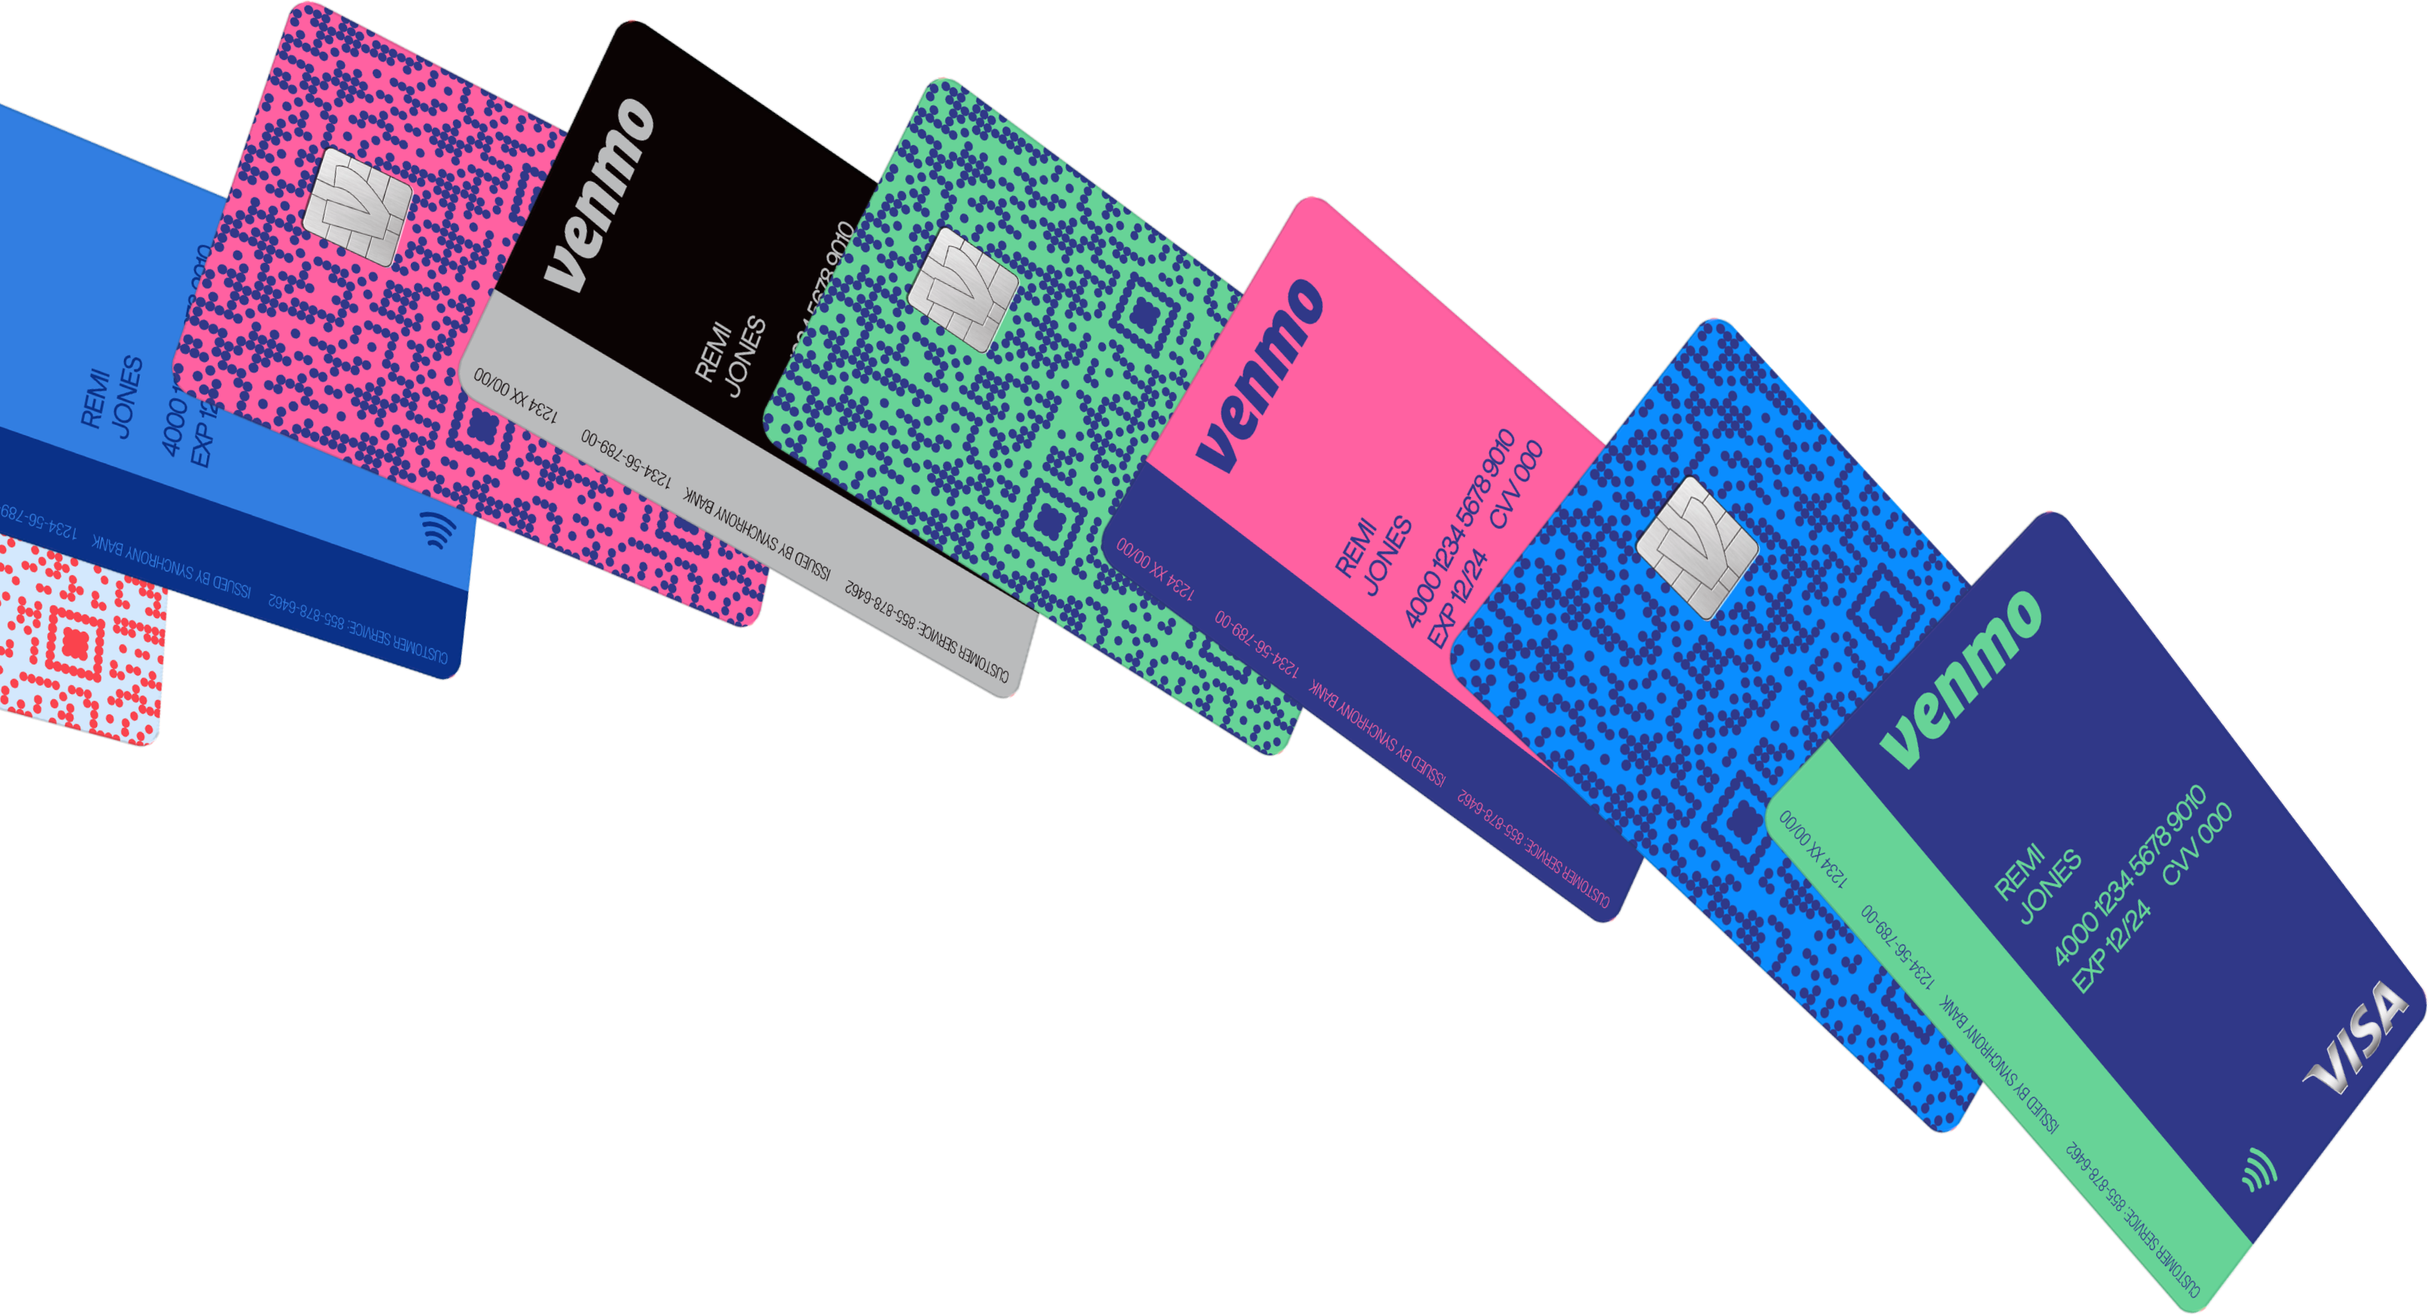
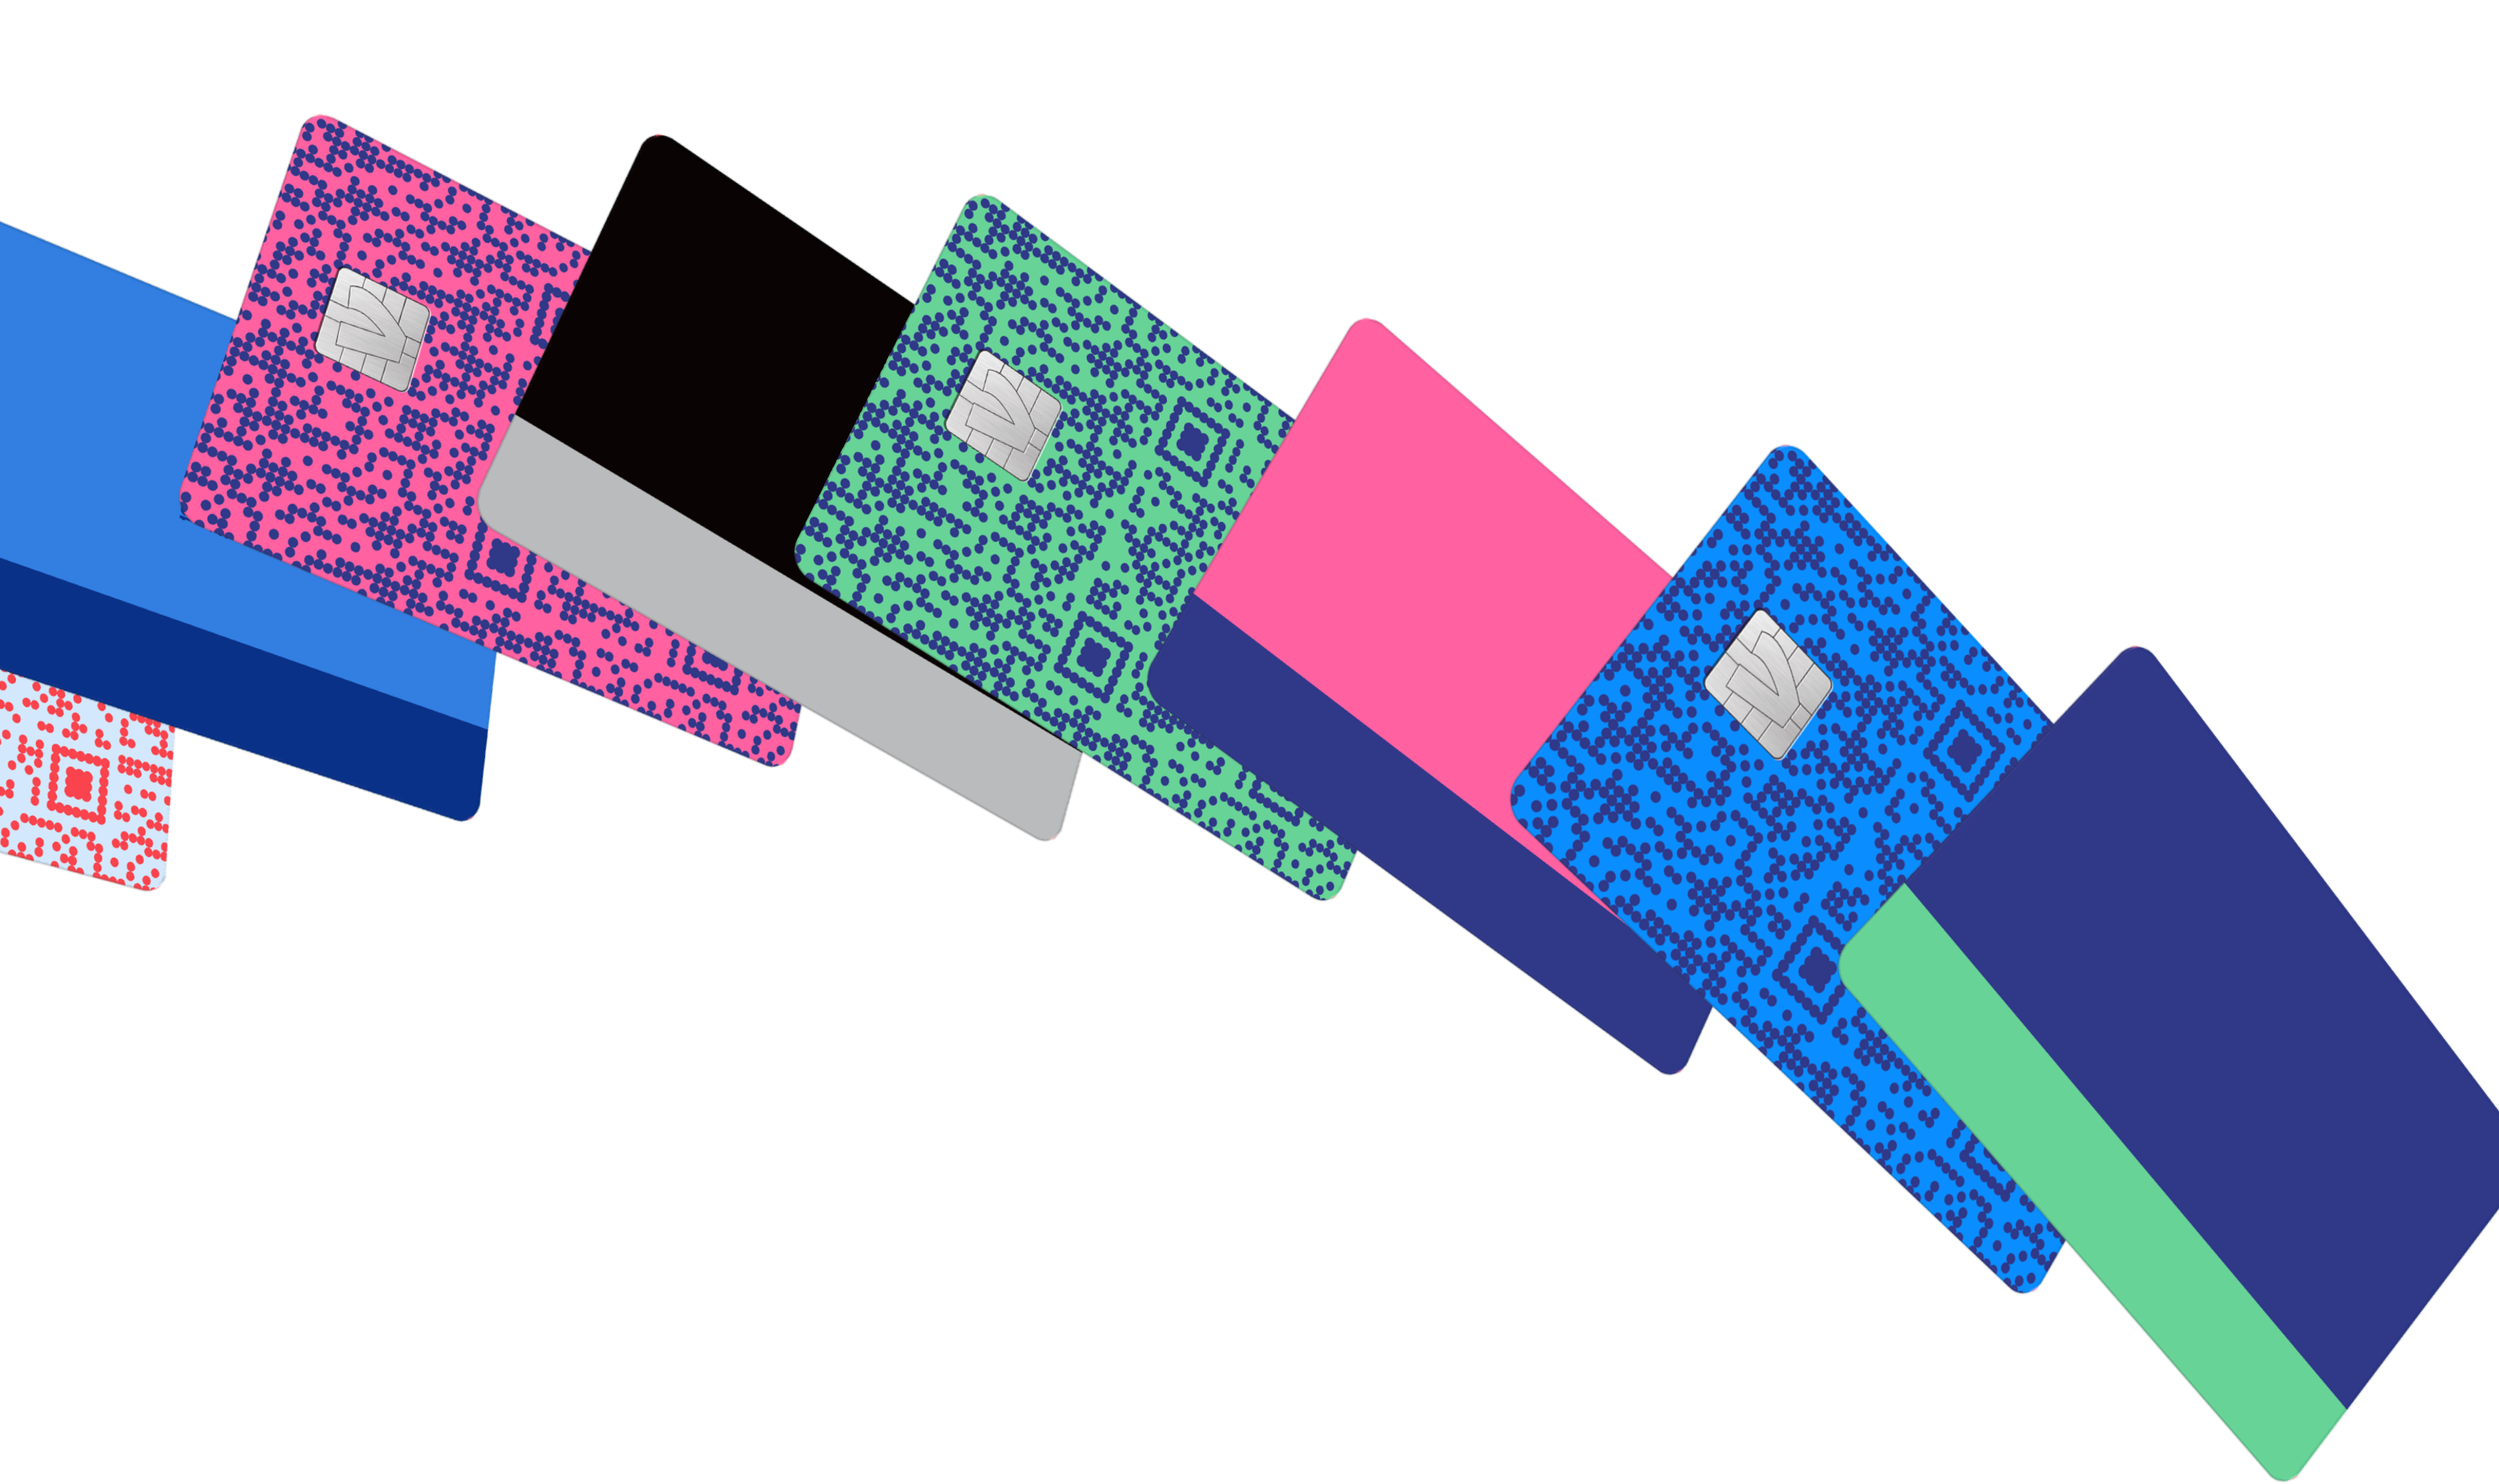
minor design changes in Home page. (220902)

diff --git a/src/components/home/Home.module.css b/src/components/home/Home.module.css
@@ -5,13 +5,21 @@
 
 .pageOneBackground {
     position: fixed;
-    background: linear-gradient(135deg, rgb(0,200,200) 10%, rgb(0, 50, 250) 90%);
-    top: 80px;
-    width: 100%;
+    background: linear-gradient(135deg, rgb(0, 200, 200) 10%, rgb(0, 50, 250) 90%);
     z-index: -1;
-    padding-top: 100px;
-    padding-bottom: 100vh;
+    width: 100vw;
+    height: 100vh;
     animation: fadeIn 1s;
+}
+
+.pageOneBackground img {
+    width: 100%;
+    position: absolute;
+    margin: auto;
+    top: 0;
+    bottom: 0;
+    left: 0;
+    right: 0;
 }
 
 .pageOneShow {
@@ -25,9 +33,12 @@
 
 .pageOneText {
     padding-top: 15vh;
+    display: block;
+    margin: 0px auto;
+    width: 1200px;
     font-size: 2rem;
     color: rgb(255, 255, 255);
-    text-align: center;
+    text-align: right;
 }
 
 .pageOneLogo {
@@ -49,15 +60,16 @@
     font-size: 1.5rem;
     color: rgb(255, 255, 255);
     text-align: center;
-    margin-bottom: 5px;
+    margin-bottom: 20px;
 }
 
 .pageOneStartButton {
-    width: 200px;
-    height: 50px;
+    width: 250px;
+    height: 60px;
     display: block;
     margin: 0px auto;
-    font-size: 1.5rem;
+    margin-bottom: 110px;
+    font-size: 1.8rem;
     border: none;
     border-radius: 5px;
     color: rgb(255, 255, 255);
@@ -69,7 +81,7 @@
     font-size: 1rem;
     text-align: center;
     position: absolute;
-    top: 95vh;
+    top: 88vh;
     left: 50%;
     transform: translate(-50%, -50%);
     color: rgb(200, 200, 200);
@@ -274,35 +286,18 @@
     }
 
     .pageOneText {
-        font-size: 1.2rem;
-        text-align: center;
-    }
-    
-    .pageOneLogo {
-        width: 90%;
-        max-width: 1200px;
-    }
-    
-    .pageOneStartButton {
-        width: 200px;
-        height: 50px;
+        padding-top: 20vh;
+        width: 100%;
         display: block;
         margin: 0px auto;
-        font-size: 1.5rem;
-        border: none;
-        border-radius: 5px;
+        font-size: 2rem;
         color: rgb(255, 255, 255);
-        background-color: rgb(250, 150, 0);
-    }
-    
-    .pageOneScroll {
-        width: 200px;
         text-align: center;
-        position: absolute;
-        top: 95vh;
-        left: 50%;
-        transform: translate(-50%, -50%);
-        color: rgb(150, 150, 150);
+    }
+
+    .pageOneLogo {
+        width: 80%;
+        max-width: 1200px;
     }
 
     .pageTwoAppear {
@@ -314,7 +309,7 @@
         font-size: 1.5rem;
         left: 5vw;
     }
-    
+
     .pageThreeGraphicShow {
         width: 50%;
         margin-right: 5vw;
@@ -335,7 +330,7 @@
         grid-template-columns: repeat(3, 1fr);
         gap: 10px;
     }
-    
+
     .pageFourElements {
         height: 150px;
         font-size: 1.2rem;
@@ -351,7 +346,7 @@
         top: 5px;
         text-align: right;
     }
-    
+
     .pageFourGae {
         font-size: 1rem;
     }
@@ -365,19 +360,19 @@
             left: -50vw;
             opacity: 0;
         }
-    
+
         to {
             left: 5vw;
             opacity: 1;
         }
     }
-    
+
     @keyframes disappearLeft {
         from {
             left: 5vw;
             opacity: 1;
         }
-    
+
         to {
             left: -50vw;
             opacity: 0;

diff --git a/src/components/home/Home.js b/src/components/home/Home.js
@@ -48,8 +48,6 @@ function Home() {
         }
     }
 
-    console.log(scrollY, window.innerHeight, showOne)
-
     useEffect(() => {
         const watch = () => {
             window.addEventListener("scroll", handleFollow)
@@ -75,20 +73,20 @@ function Home() {
 
 
     return (
-        <div>
+        <section>
             <div className={styles.container}>
-                <img alt="home" className={styles.pageOneBackground} src={process.env.PUBLIC_URL + "/images/background.png"} />
+                <div className={styles.pageOneBackground}>
+                    <img alt="home" src={process.env.PUBLIC_URL + "/images/background.png"} />
+                </div>
 
                 <div className={styles.pageOne}>
-                    
-
                     <div className={showOne ? styles.pageOneShow : styles.pageOneHide}>
                         <div className={styles.pageOneText}>
                             사용자 소비 패턴 기반<br />
                             카드 추천 서비스<br />
                         </div>
 
-                        <img alt="home" className={styles.pageOneLogo} src={process.env.PUBLIC_URL + "/images/cardvisor_logo/cardvisor_title_white.png"} />
+                        <img alt="home" className={styles.pageOneLogo} src={process.env.PUBLIC_URL + "/images/cardvisor_logo/cardvisor_nomargin_white.png"} />
 
                         <div className={styles.pageOneStartZone}>
                             <div className={styles.pageOneStartText}>
@@ -238,8 +236,8 @@ function Home() {
                         </div>
                     </div>
                 </div>
-            </div >
-        </div>
+            </div>
+        </section>
     );
 }
 

diff --git a/src/App.css b/src/App.css
@@ -12,6 +12,14 @@ input {
     user-select: text;
 }
 
+* {
+    -ms-overflow-style: none;
+}
+
+*::-webkit-scrollbar {
+    display: none;
+}
+
 /* @font-face {
     font-family: 'Noto Sans KR';
     font-style: normal;
